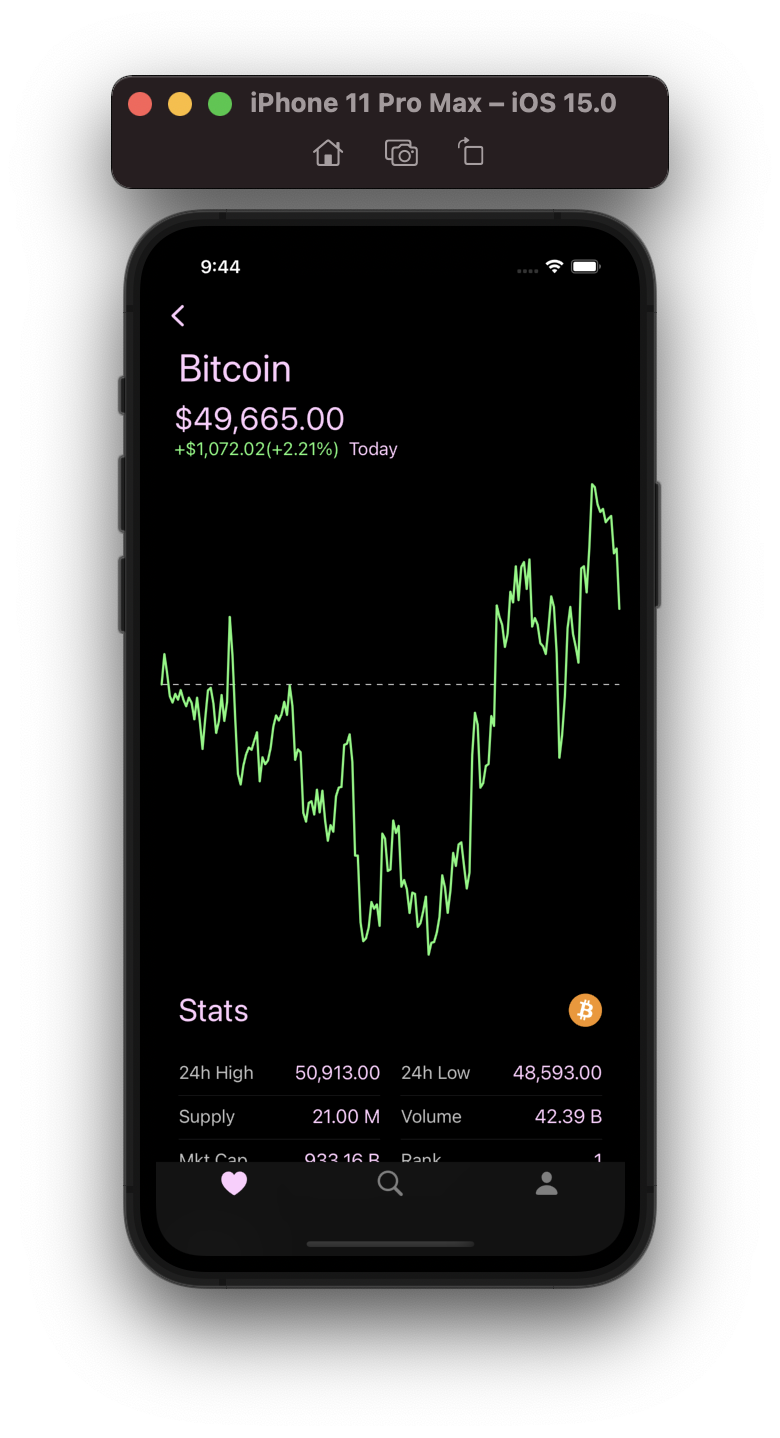
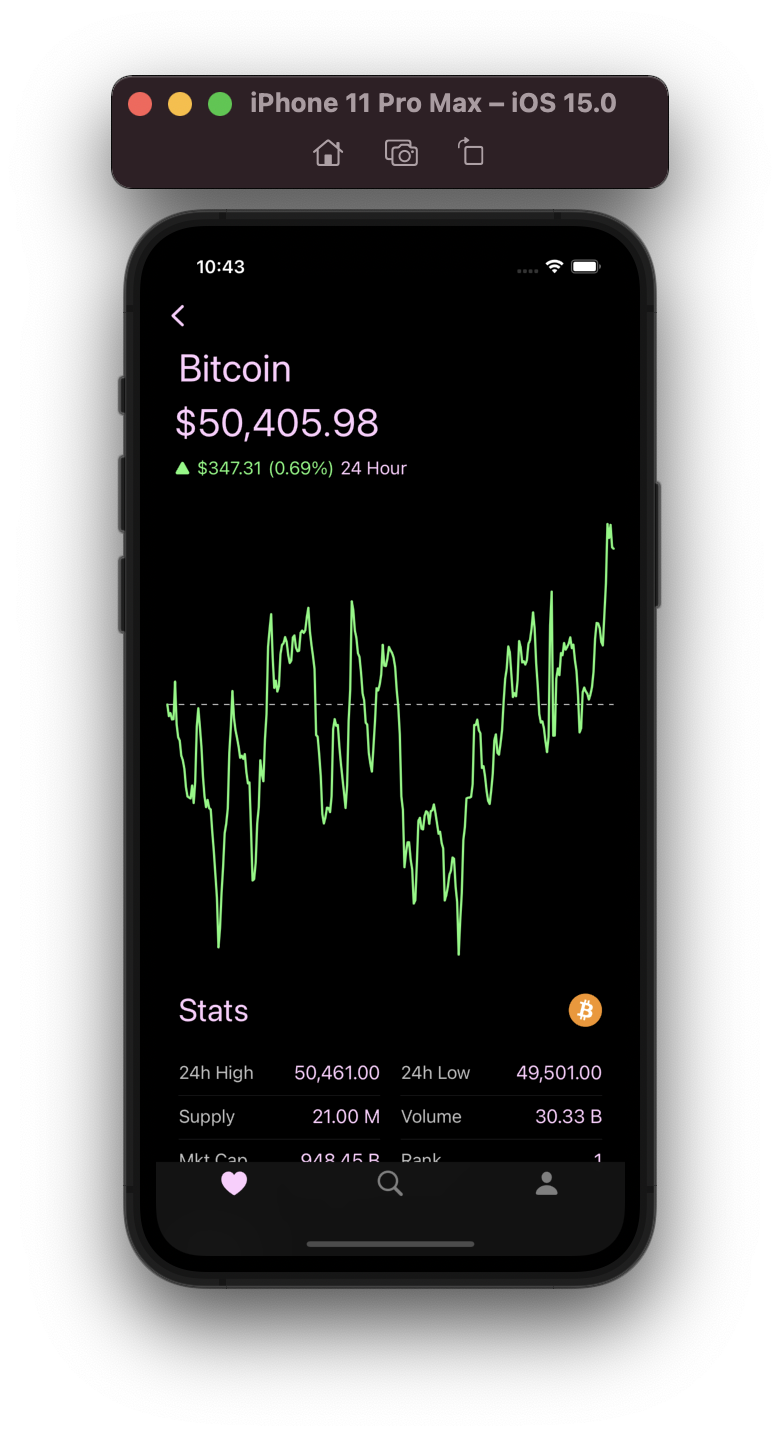
line chart change subtitle

diff --git a/MyPortfolio/Core/Componenets/LineChart/DetailLineChartView.swift b/MyPortfolio/Core/Componenets/LineChart/DetailLineChartView.swift
@@ -35,25 +35,15 @@ struct DetailLineChartView: View {
             .foregroundColor(.theme.accent)
             .padding(.horizontal)
             
-            GeometryReader { geometry in
-                HStack {
-                    Rectangle()
-                        .fill(Color.clear)
-                        .overlay(
-                            Text(indicatorStirng)
-                                .foregroundColor(.theme.secondaryText),
-                            alignment: .leading
-                        )
-                        .frame(width: indicatorStringWidth, height: 10)
-                        .offset(x: min(max(padding.width / 2, dragPosition.x - indicatorStringWidth / 2), geometry.size.width - indicatorStringWidth - padding.width/2))
-                }
-                .font(.callout)
-            }
-            .frame(height: 10)
+            indicatorBox
             
             // Line Section
             GeometryReader { geometry in
                 Group {
+                    // Progress View
+                    if data.count == 0 {
+                        ProgressView().position(x: geometry.size.width / 2, y: geometry.size.height / 2)
+                    }
                     // baseline
                     Path.horizontalBaseLine(points: data, step: getStep(in: geometry), padding: padding, width: geometry.size.width)
                         .stroke(style: StrokeStyle(lineWidth: 1, dash: [5]))
@@ -133,26 +123,52 @@ extension DetailLineChartView {
                 Text((data.last ?? coin.currentPrice).asCurrencyWith2Decimals())
             }
         }
-        .font(.title)
+        .font(.largeTitle)
     }
     
     private var priceChangeRow: some View {
-        HStack {
-            Text(subTitle)
-                .foregroundColor(subTitle.hasPrefix("-") ? .theme.red : .theme.green)
-            if !showIndicator { Text("24 Hour") }
+        HStack(spacing: 5) {
+            Image(systemName: "triangle.fill")
+                .font(.caption)
+                .rotationEffect((subTitlePriceChange < 0 ? .degrees(180) : .degrees(0)), anchor: .center)
+            Text(subTitlePriceChange.asCurrencyWith2Decimals())
+            Text("(\(subTitlePriceChangePercent.asPercentString()))")
+            if !showIndicator {
+                Text("24 Hour")
+                    .foregroundColor(.theme.accent)
+            }
         }
+        .foregroundColor(subTitlePriceChange < 0 ? .theme.red: .theme.green)
         .font(.callout)
     }
     
-    private var subTitle: String {
-        guard let first = data.first, var last = data.last else { return "" }
+    private var indicatorBox: some View {
+        GeometryReader { geometry in
+            HStack {
+                Rectangle()
+                    .fill(Color.clear)
+                    .overlay(
+                        Text(indicatorStirng)
+                            .foregroundColor(.theme.secondaryText),
+                        alignment: .leading
+                    )
+                    .frame(width: indicatorStringWidth, height: 10)
+                    .offset(x: min(max(padding.width / 2, dragPosition.x - indicatorStringWidth / 2), geometry.size.width - indicatorStringWidth - padding.width/2))
+            }
+            .font(.callout)
+        }
+        .frame(height: 10)
+    }
+    
+    private var subTitlePriceChange: Double {
+        guard let first = data.first, var last = data.last else { return 0 }
         if showIndicator { last = dragPositionPrice }
-        let change = last - first
-        let sign = change < 0 ? "" : "+"
-        let priceChange = abs(change) > 1 ? change.asCurrencyWith2Decimals() : change.asCurrencyWith6Decimals()
-        let priceChangePercent = (change / first * 100).asPercentString()
-        return "\(sign)\(priceChange)(\(sign)\(priceChangePercent))"
+        return last - first
+    }
+    
+    private var subTitlePriceChangePercent: Double {
+        guard let first = data.first else { return 0 }
+        return subTitlePriceChange / first * 100
     }
     
     private var lineColor: Color { (data.last ?? 0) - (data.first ?? 0) > 0 ? Color.theme.green : Color.theme.red }

diff --git a/README.md b/README.md
@@ -16,6 +16,10 @@ The news data that is used in this app comes from [NewsAPI](https://newsapi.org/
 
 * [BetterSafariView](https://github.com/stleamist/BetterSafariView) - A better way to present a SFSafariViewController or start a ASWebAuthenticationSession in SwiftUI.
 
+## Screen Recordings 
+
+<img src="./Resources/1.gif" height="500">
+
 ## Screenshots
 
 <img src="./Resources/1.png" height="500"><img src="./Resources/2.png" height="500"><img src="./Resources/3.png" height="500"><img src="./Resources/4.png" height="500"><img src="./Resources/5.png" height="500">
